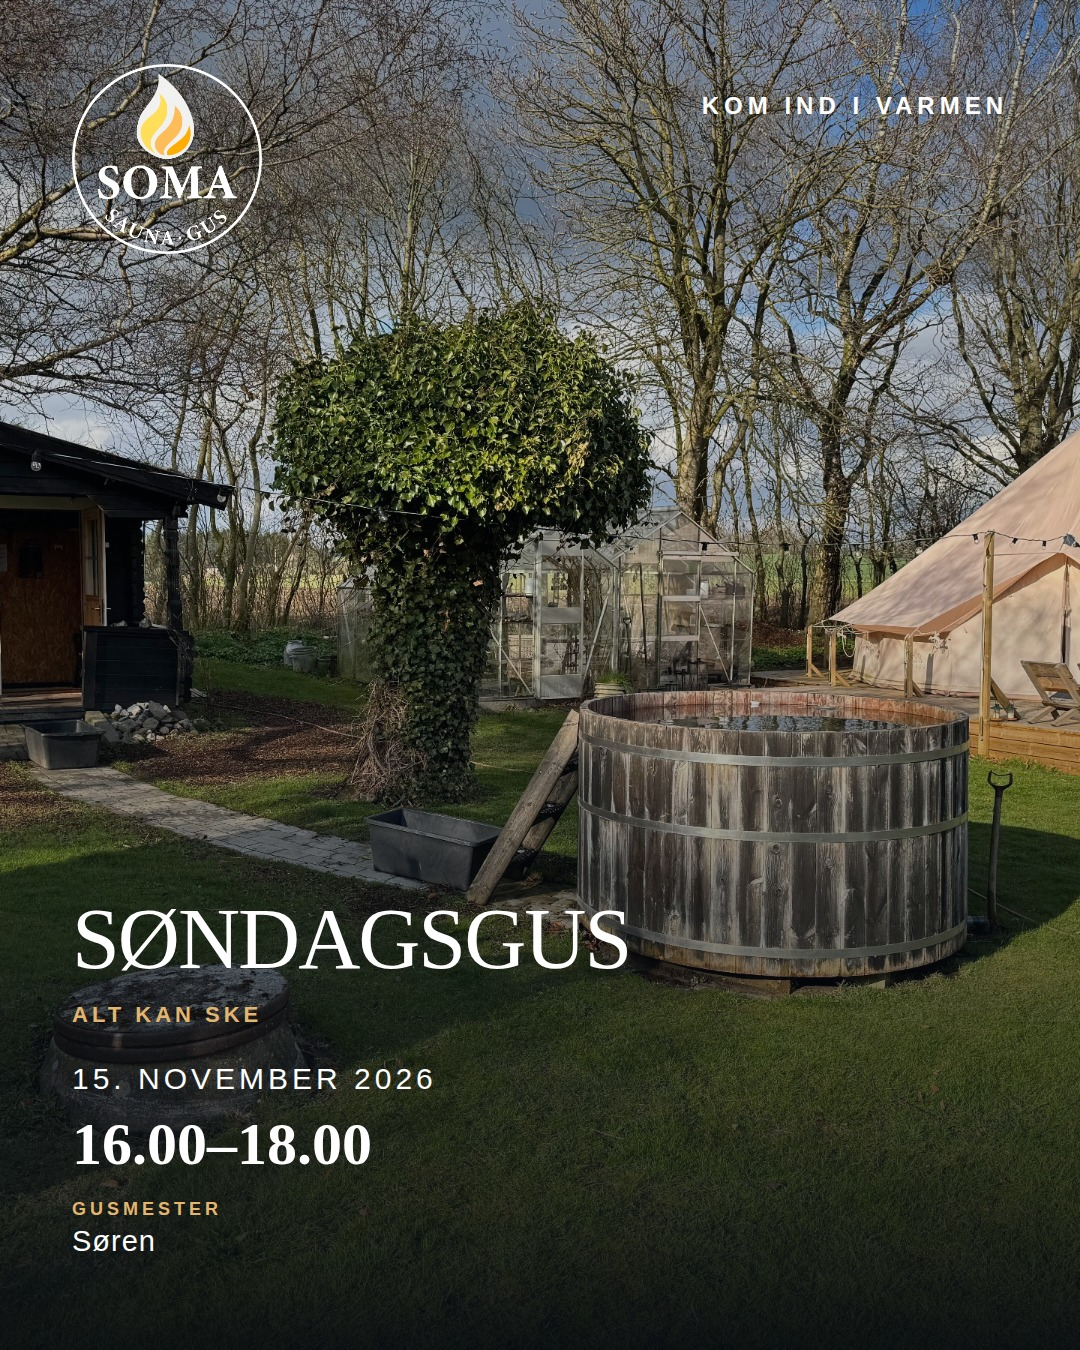
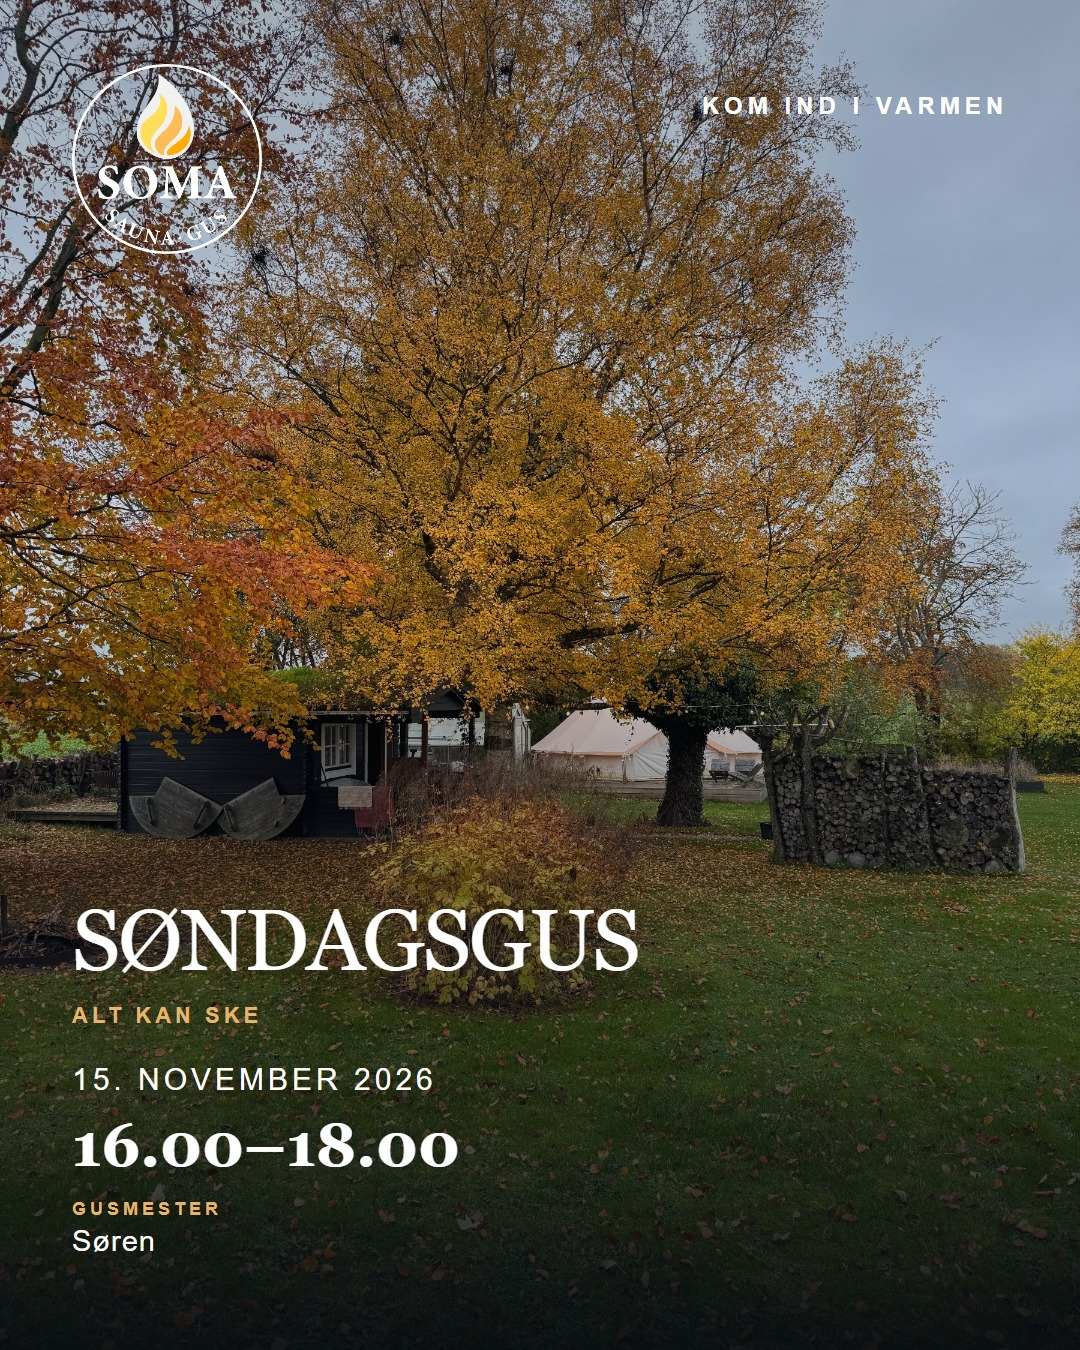
change-image: 2026-11-15_16-00_saunagus_event-day_r1 til soma-img-7321 via lokal godkendelsesside

diff --git a/outputs/content-planner/approval/drafts-data.js b/outputs/content-planner/approval/drafts-data.js
@@ -655,7 +655,7 @@ window.__SOMA_DRAFTS__ = window.__SOMA_DRAFTS__ || [
       "instagram": "I dag: Rund ugen af med varme og ro i kroppen.\n\n15. november 2026 · 16.00–18.00\n\n12 ledige pladser.\n\nBook din plads: https://somasaunagus.dk/kalender/",
       "facebookPage": "Dato og tid: 15. november 2026 · 16.00–18.00\n\n12 ledige pladser.\n\nBook din plads: https://somasaunagus.dk/kalender/\n\nI dag kan du træde ind i varmen til et saunagus.\n\nRund ugen af med varme og ro i kroppen.\n\nSøndagens musik og tema kan variere, men den rolige grundrejse er altid med.\n\nKom med og giv dig selv en blid afslutning på ugen."
     },
[2 lines of base64/hex data omitted]
     "factsUsed": [
       "event.date",
       "event.start",
@@ -663,18 +663,25 @@ window.__SOMA_DRAFTS__ = window.__SOMA_DRAFTS__ || [
       "event.name",
       "profile:soren"
     ],
-    "assetId": "soma-img-6706",
+    "assetId": "soma-img-7321",
     "render": {
       "path": "renders/2026-11-15_16-00_saunagus_event-day-3dd8f931bf.jpg",
       "width": 1080,
       "height": 1350,
[2 lines of base64/hex data omitted]
     },
     "renderPath": "renders/2026-11-15_16-00_saunagus_event-day-3dd8f931bf.jpg",
     "manualInstructor": null,
-    "manualAssetId": null,
-    "history": [],
[1 lines of base64/hex data omitted]
+    "manualAssetId": "soma-img-7321",
+    "history": [
+      {
+        "at": "2026-11-08T08:56:04.602Z",
+        "type": "change_image",
+        "from": "draft",
+        "to": "draft"
+      }
+    ],
[1 lines of base64/hex data omitted]
     "approvedAt": null,
     "approvedBy": null,
     "approvedRevision": null,
